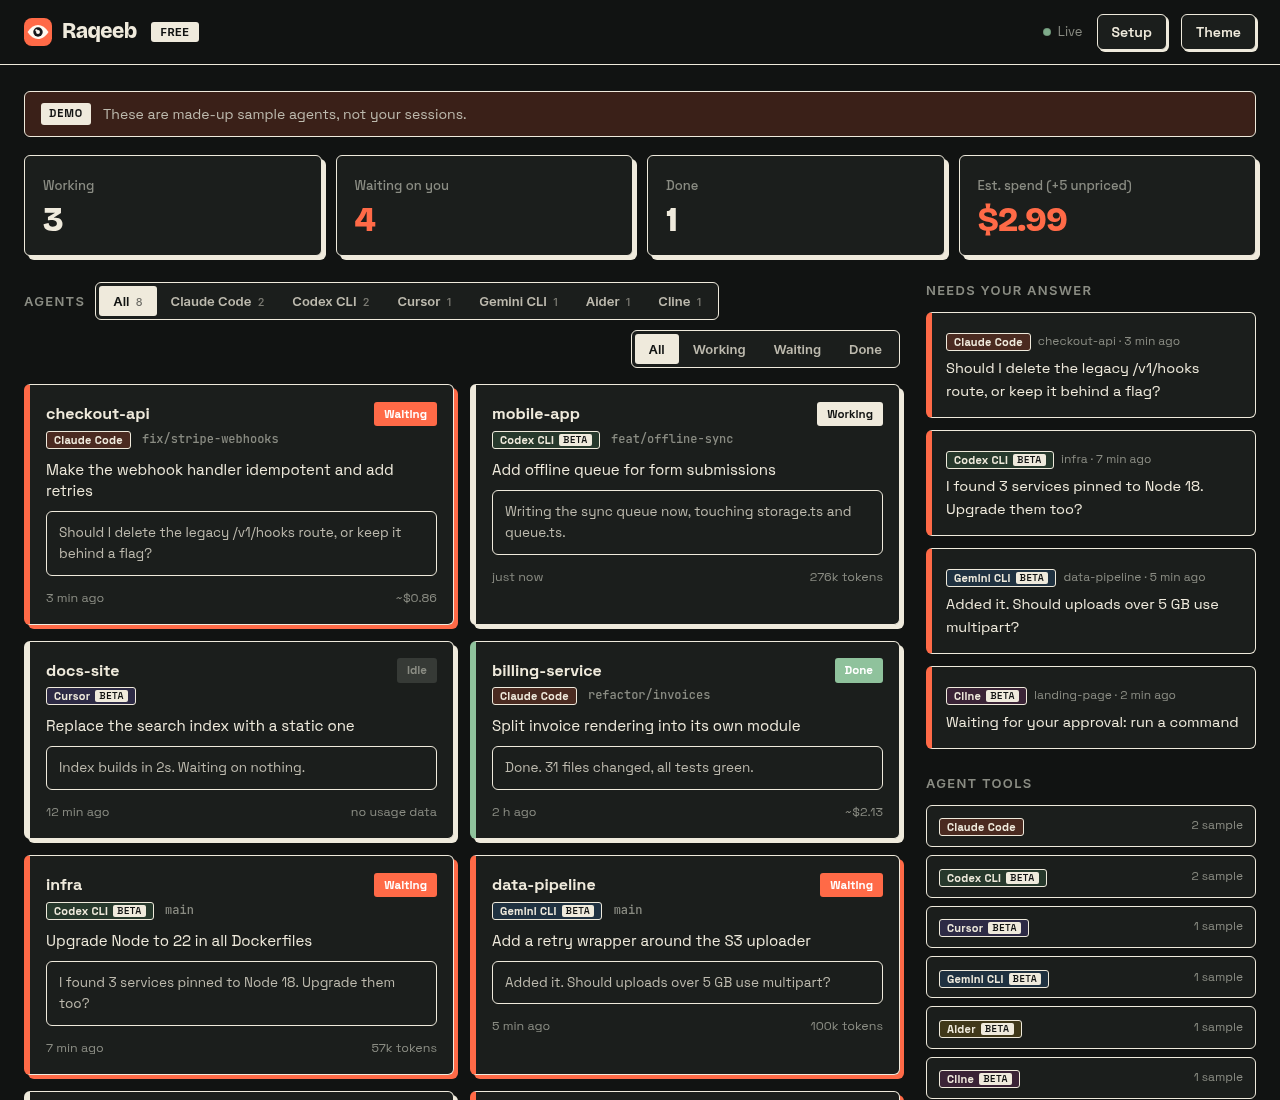
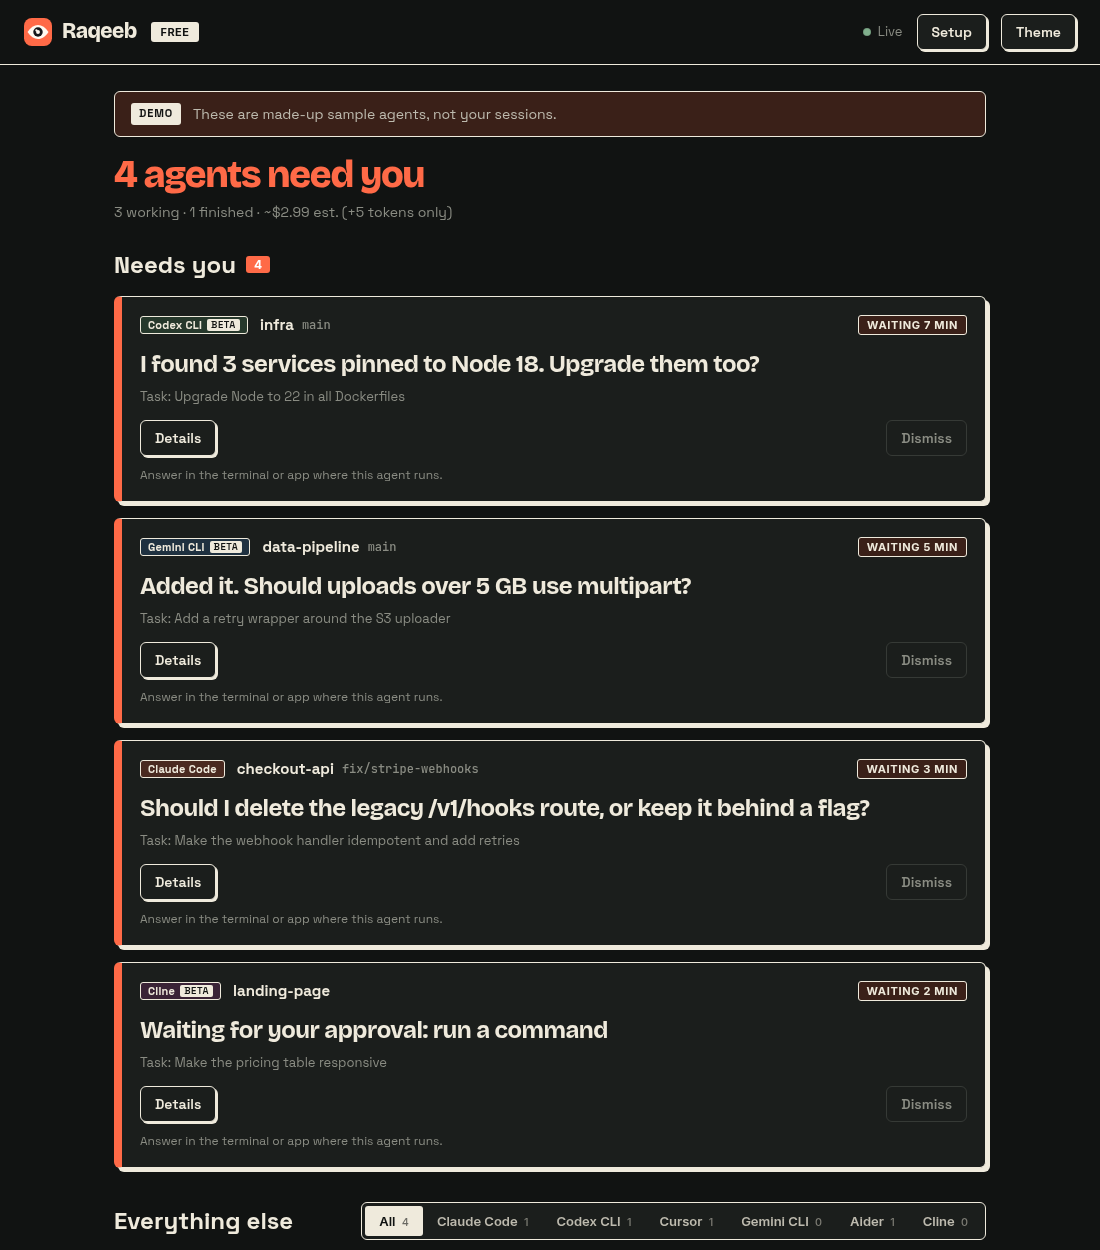
v0.6.0: question-first dashboard

Changed region(s): [[0.0, 0.0, 0.9891, 1.0], [0.9273, 0.9273, 0.9891, 1.0]]

diff --git a/public/app.js b/public/app.js
@@ -12,7 +12,6 @@ const bucket = a => a.status === 'idle' ? 'working' : a.status;
 const badge = p => `<span class="tag t-${esc(p.id || p.provider)}">${esc(p.name || p.tool)}${p.experimental ? '<i title="Experimental: built from published format notes, not yet checked against a real install">beta</i>' : ''}</span>`;
 const provOf = a => providers.find(p => p.id === a.provider) || { id: a.provider, name: a.tool };
 
-document.querySelectorAll('#seg button').forEach(b => b.onclick = () => { filter = b.dataset.f; document.querySelectorAll('#seg button').forEach(x => x.classList.toggle('on', x === b)); draw(); });
 $('#drawer').onclick = e => { if (e.target.id === 'drawer') $('#drawer').classList.remove('open'); };
 window.open_ = id => { const a = agents.find(x => x.id === id); if (!a) return;
   $('#panel').innerHTML = `<h3>${esc(a.project)}</h3><div class="meta">${badge(provOf(a))} ${esc(a.branch || 'no branch')} ${a.model ? '· ' + esc(a.model) : ''}</div><span class="pill" style="display:inline-block">${a.status}</span>
@@ -20,14 +19,45 @@ window.open_ = id => { const a = agents.find(x => x.id === id); if (!a) return;
   <div class="k">Usage</div><pre>${a.hasUsage ? `${a.tokensIn.toLocaleString()} tokens in, ${a.tokensOut.toLocaleString()} out\n` : 'This tool does not record token usage in the files Raqeeb reads.\n'}${a.cost != null ? 'Estimated cost ' + money(a.cost) : a.hasUsage ? 'No price rate set for this model (edit lib/pricing.js)' : ''}\nWorking directory: ${esc(a.cwd)}</pre><p><button class="btn" onclick="document.getElementById('drawer').classList.remove('open')">Close</button></p>`;
   $('#drawer').classList.add('open'); };
 
+const dis = () => { try { return JSON.parse(localStorage.dismissed || '{}'); } catch { return {}; } };
+let showDismissed = false;
+window.dismiss = (id, u) => { const d = dis(); d[id] = u; localStorage.dismissed = JSON.stringify(d); last = ''; refresh(true); };
+window.undismiss = () => { localStorage.dismissed = '{}'; showDismissed = false; last = ''; refresh(true); };
+window.copyCd = (id, btn) => { const a = agents.find(x => x.id === id); if (!a) return; const t = 'cd ' + JSON.stringify(a.cwd); (navigator.clipboard ? navigator.clipboard.writeText(t) : Promise.reject()).then(() => { btn.textContent = 'Copied'; }, () => { prompt('Copy this command', t); }); setTimeout(() => { btn.textContent = 'Copy folder'; }, 1800); };
+const where = a => a.cwd && a.cwd.startsWith('/') ? a.cwd : '';
+function needCard(a) {
+  const age = Math.max(1, Math.round((Date.now() - a.updated) / 60000));
+  return `<div class="need"><div class="need-h">${badge(provOf(a))}<b>${esc(a.project)}</b>${a.branch ? `<code>${esc(a.branch)}</code>` : ''}<span class="sp"></span><span class="age ${age >= 30 ? 'old' : ''}">waiting ${age < 60 ? age + ' min' : Math.round(age / 60) + ' h'}</span></div>
+  <div class="need-q">${esc(a.question || a.lastSay)}</div>
+  <div class="need-t">Task: ${esc(a.task)}</div>
+  <div class="need-a"><button class="btn sm" onclick="open_('${esc(a.id)}')">Details</button>${where(a) ? `<button class="btn sm" onclick="copyCd('${esc(a.id)}',this)">Copy folder</button>` : ''}<span class="sp"></span><button class="btn sm ghost" title="Hide until this agent says something new" onclick="dismiss('${esc(a.id)}',${a.updated})">Dismiss</button></div>
+  <div class="need-n">Answer in the terminal or app where this agent runs.</div></div>`;
+}
+function row(a) {
+  return `<div class="arow ${a.status}" onclick="open_('${esc(a.id)}')"><span class="dot"></span><b>${esc(a.project)}</b>${badge(provOf(a))}<span class="at">${esc(a.task)}</span><span class="sp"></span><span class="pill">${a.status === 'idle' ? 'idle' : a.status}</span><small>${ago(a.updated)}</small><small class="cost">${costText(a)}</small></div>`;
+}
 function draw() {
-  const list = agents.filter(a => (filter === 'all' || bucket(a) === filter) && (pfilter === 'all' || a.provider === pfilter));
-  $('#board').innerHTML = list.map((a, i) => `<div class="card ${a.status}" style="${animate ? `animation:up .5s ${i * 50}ms both` : 'animation:none'}" onclick="open_('${esc(a.id)}')"><div class="row"><span class="proj">${esc(a.project)}</span><span class="pill">${a.status}</span></div>
-  <div class="meta">${badge(provOf(a))} ${esc(a.branch || '')}</div><div class="task">${esc(a.task)}</div><div class="say">${esc(a.lastSay)}</div>
-  <div class="foot"><span>${ago(a.updated)}</span><span>${costText(a)}</span></div></div>`).join('') || `<div class="empty">${pfilter === 'all' ? 'No agents in this view.' : 'No ' + esc((providers.find(p => p.id === pfilter) || {}).name) + ' sessions in this view.'}</div>`;
+  const d = dis(), inView = a => pfilter === 'all' || a.provider === pfilter;
+  const asks = agents.filter(a => a.status === 'waiting' && inView(a)).sort((x, y) => x.updated - y.updated);
+  const hidden = asks.filter(a => d[a.id] === a.updated), shown = asks.filter(a => d[a.id] !== a.updated);
+  $('#needn').textContent = shown.length ? shown.length : '';
+  $('#dismissed').innerHTML = hidden.length ? `${hidden.length} dismissed <button class="link" onclick="undismiss()">show again</button>` : '';
+  const working = agents.filter(a => a.status === 'working' && inView(a)).length + agents.filter(a => a.status === 'idle' && inView(a)).length;
+  $('#needs').innerHTML = shown.length ? shown.map(needCard).join('') : `<div class="calm"><b>${asks.length ? 'Everything is dismissed.' : 'Nothing is waiting on you.'}</b><span>${agents.length ? (working ? working + ' agent' + (working === 1 ? ' is' : 's are') + ' still working. ' : '') + 'When an agent stops to ask a question, it shows up here first.' : 'When an agent stops to ask a question, it shows up here first.'}</span></div>`;
+  const rest = agents.filter(a => a.status !== 'waiting' && inView(a));
+  const g = (t, l) => l.length ? `<div class="grp">${t} <em>${l.length}</em></div>` + l.map(row).join('') : '';
+  const live = rest.filter(a => a.status === 'working' || a.status === 'idle'), fin = rest.filter(a => a.status === 'done');
+  $('#board').innerHTML = rest.length ? g('Working', live) + g('Finished', fin) : `<div class="empty">${pfilter === 'all' ? 'No other agents right now.' : 'No ' + esc((providers.find(p => p.id === pfilter) || {}).name) + ' sessions besides the ones above.'}</div>`;
+  const n = asks.length - hidden.length;
+  document.title = (n ? '(' + n + ') ' : '') + 'Raqeeb';
+  $('#summary').innerHTML = `<div class="sum-main ${n ? 'hot' : ''}"><b>${n ? n + (n === 1 ? ' agent needs you' : ' agents need you') : 'No agent is waiting on you'}</b><span>${agents.filter(a => a.status === 'working' || a.status === 'idle').length} working · ${agents.filter(a => a.status === 'done').length} finished · ${spendLine()}</span></div>`;
+}
+function spendLine() {
+  const known = agents.reduce((s, a) => s + (a.cost || 0), 0), unpriced = agents.filter(a => a.cost == null && a.hasUsage).length;
+  return (known ? '~$' + known.toFixed(2) + ' est.' : 'no priced spend') + (unpriced ? ' (+' + unpriced + ' tokens only)' : '');
 }
 function drawProviderFilter() {
-  const items = [['all', 'All', agents.length], ...providers.map(p => [p.id, p.name, agents.filter(a => a.provider === p.id).length])];
+  const items = [['all', 'All', agents.filter(a => a.status !== 'waiting').length], ...providers.map(p => [p.id, p.name, agents.filter(a => a.provider === p.id && a.status !== 'waiting').length])];
   $('#pseg').innerHTML = items.map(([id, n, c]) => `<button data-p="${esc(id)}" class="${pfilter === id ? 'on' : ''}">${esc(n)} <small>${c}</small></button>`).join('');
   document.querySelectorAll('#pseg button').forEach(b => b.onclick = () => { pfilter = b.dataset.p; drawProviderFilter(); draw(); });
 }
@@ -79,7 +109,7 @@ async function refresh(force) {
   const needSetup = !r.demo && (r.state !== 'ok' || showSetup);
   if (needSetup && !setupData) setupData = await (await fetch('/api/setup')).json();
   if (!needSetup) setupData = null;
-  const sig = JSON.stringify([r.state, showSetup, r.providers.map(p => [p.id, p.root, p.state, p.count]), r.agents.map(a => [a.id, a.status, a.updated, a.lastSay])]);
+  const sig = JSON.stringify([r.state, showSetup, localStorage.dismissed, r.providers.map(p => [p.id, p.root, p.state, p.count]), r.agents.map(a => [a.id, a.status, a.updated, a.lastSay])]);
   if (!force && sig === last) return; last = sig;
   agents = r.agents; providers = r.providers;
   $('#onboard').hidden = !needSetup; $('#dash').hidden = needSetup;
@@ -87,12 +117,7 @@ async function refresh(force) {
   if ($('#exitdemo')) $('#exitdemo').onclick = () => { demoOn = false; sessionStorage.demo = '0'; last = ''; refresh(true); };
   if (needSetup) return onboard(r, setupData);
   if (pfilter !== 'all' && !providers.some(p => p.id === pfilter)) pfilter = 'all';
-  const c = s => agents.filter(a => a.status === s).length;
-  const known = agents.reduce((s, a) => s + (a.cost || 0), 0), unpriced = agents.filter(a => a.cost == null && a.hasUsage).length;
-  $('#stats').innerHTML = [['', c('working') + c('idle'), 'Working'], ['hot', c('waiting'), 'Waiting on you'], ['', c('done'), 'Done'], ['amb', '$' + known.toFixed(2), 'Est. spend' + (unpriced ? ' (+' + unpriced + ' unpriced)' : '')]].map(([k, n, l]) => `<div class="kpi ${k}"><small>${l}</small><b>${n}</b></div>`).join('');
   drawProviderFilter(); draw(); animate = false;
-  const qs = agents.filter(a => a.question);
-  $('#inbox').innerHTML = qs.length ? qs.map(a => `<div class="q"><small>${badge(provOf(a))} ${esc(a.project)} · ${ago(a.updated)}</small><div>${esc(a.question)}</div></div>`).join('') : '<div class="empty">No agent is waiting on you.</div>';
   $('#provs').innerHTML = providers.map(p => `<div class="sp-row prow"><span>${badge(p)}</span><small class="${p.state === 'ok' || p.state === 'demo' ? '' : 'dim'}">${esc(provLine(p))}</small></div>`).join('') + (r.demo ? '' : '<div class="note">Not seeing a tool? Press <b>Setup</b> to check its folder.</div>');
   const sum = (key, list) => { const o = {}; list.forEach(a => { const k = key(a); o[k] = o[k] || { cost: 0, tok: 0, priced: 0, n: 0 }; o[k].n++; o[k].tok += a.tokensIn + a.tokensOut; if (a.cost != null) { o[k].cost += a.cost; o[k].priced++; } }); return o; };
   const row = (n, v) => `<div class="sp-row"><span>${esc(n)}</span><b>${v.priced ? '~$' + v.cost.toFixed(2) : v.tok ? tok(v.tok) + ' tokens' : 'no usage data'}</b></div>`;

diff --git a/public/style.css b/public/style.css
@@ -98,3 +98,28 @@ body{font-family:"Space Grotesk","Inter",sans-serif}
 .t-gemini{background:#d3e2ee}.t-aider{background:#efe3b8}.t-cline{background:#e8d2e2}
 [data-theme=dark] .t-gemini{background:#1f3140;color:#efeadc}[data-theme=dark] .t-aider{background:#403819;color:#efeadc}[data-theme=dark] .t-cline{background:#3a2336;color:#efeadc}
 #pseg{flex-wrap:wrap}.bar{flex-wrap:wrap}
+
+/* v0.6 question-first layout */
+.page{max-width:920px}
+.summary{margin:6px 0 22px}.sum-main b{display:block;font:800 clamp(26px,4vw,38px)/1.05 "Bricolage Grotesque",sans-serif;letter-spacing:-.035em}
+.sum-main.hot b{color:var(--clay)}.sum-main span{display:block;margin-top:6px;color:var(--mute);font-size:14px}
+.sec-h{display:flex;align-items:center;gap:10px;margin:0 0 12px;flex-wrap:wrap}.sec-h h2{margin:0}.sec-h em{font-style:normal;background:var(--clay);color:#fff;border-radius:3px;font:700 12px "Inter";padding:1px 8px}.sec-h em:empty{display:none}
+.sec-h .sp,.need-h .sp,.need-a .sp,.arow .sp{flex:1}
+.link{background:none;border:0;color:var(--ink);text-decoration:underline;cursor:pointer;font:inherit;padding:0}#dismissed{font-size:13px;color:var(--mute)}
+.need{border:1.5px solid var(--ink);border-left:8px solid var(--clay);border-radius:6px;background:var(--surf);box-shadow:var(--hard);padding:16px 18px;margin-bottom:16px}
+.need-h{display:flex;align-items:center;gap:8px;flex-wrap:wrap;font-size:15px}.need-h code{font:500 12px "JetBrains Mono",monospace;color:var(--mute)}
+.age{font:700 11px "Inter";letter-spacing:.06em;text-transform:uppercase;background:var(--amberbg);padding:2px 8px;border-radius:3px;border:1.5px solid var(--ink)}.age.old{background:var(--clay);color:#fff}
+.need-q{font:700 clamp(19px,2.6vw,24px)/1.25 "Bricolage Grotesque",sans-serif;letter-spacing:-.02em;margin:12px 0 8px;white-space:pre-wrap}
+.need-t{font-size:13px;color:var(--mute);margin-bottom:12px}
+.need-a{display:flex;gap:8px;align-items:center}.need-n{font-size:12px;color:var(--mute);margin-top:10px}
+.btn.sm.ghost{box-shadow:none;border-color:var(--line);color:var(--mute)}.btn.sm.ghost:hover{border-color:var(--ink);color:var(--ink)}
+.calm{border:1.5px dashed var(--ink);border-radius:6px;padding:22px 20px;background:var(--surf)}.calm b{display:block;font:800 20px "Bricolage Grotesque",sans-serif;letter-spacing:-.02em}.calm span{display:block;color:var(--mute);margin-top:4px;font-size:14px}
+.rest{margin-top:34px}.grp{font:700 11px "Inter";letter-spacing:.08em;text-transform:uppercase;color:var(--mute);margin:14px 0 8px}.grp em{font-style:normal;opacity:.7}
+.arow{display:flex;align-items:center;gap:10px;padding:10px 14px;border:1.5px solid var(--line);border-radius:6px;background:var(--surf);margin-bottom:8px;cursor:pointer;font-size:14px}
+.arow:hover{border-color:var(--ink)}.arow .dot{width:9px;height:9px;border-radius:50%;background:var(--ink);flex:none}.arow.done .dot{background:var(--moss)}.arow.idle .dot{background:var(--mute)}
+.arow .at{color:var(--ink2);overflow:hidden;text-overflow:ellipsis;white-space:nowrap;min-width:0}.arow small{color:var(--mute);font-size:12px;white-space:nowrap}.arow .cost{font-family:"JetBrains Mono",monospace;min-width:70px;text-align:right}
+.arow .tag{margin:0;flex:none}.arow b{flex:none}
+.more{margin-top:34px;border:1.5px solid var(--ink);border-radius:6px;background:var(--surf);padding:0 18px}.more summary{cursor:pointer;padding:14px 0;font:700 14px "Space Grotesk"}.more-in{display:grid;grid-template-columns:repeat(3,1fr);gap:20px;padding-bottom:16px}.more h3{font:700 11px "Inter";letter-spacing:.08em;text-transform:uppercase;color:var(--mute);margin:0 0 8px}
+@media(max-width:760px){.more-in{grid-template-columns:1fr}.arow{flex-wrap:wrap}.arow .at{flex-basis:100%;order:9}.need-a{flex-wrap:wrap}}
+.pro{margin-top:26px}
+@media(max-width:480px){.live{display:none}}

diff --git a/public/index.html b/public/index.html
@@ -2,13 +2,13 @@
 <link href="https://fonts.googleapis.com/css2?family=Bricolage+Grotesque:opsz,wght@12..96,600..800&family=Space+Grotesk:wght@400;500;600;700&family=Inter:wght@400;500;600;700&family=JetBrains+Mono:wght@500&display=swap" rel="stylesheet">
 <link rel="stylesheet" href="/style.css"></head><body>
 <header class="top"><div class="in"><div class="logo"><svg viewBox="0 0 32 32"><rect width="32" height="32" rx="9" fill="var(--amber)"/><path d="M4 16c3.5-5.5 7.5-8 12-8s8.5 2.5 12 8c-3.5 5.5-7.5 8-12 8s-8.5-2.5-12-8z" fill="#fffaf1"/><circle cx="16" cy="16" r="5.4" fill="#15171a"/><circle cx="16" cy="16" r="2.2" fill="#fffaf1"/><circle cx="14.2" cy="14.2" r="1.3" fill="#fffaf1"/></svg>Raqeeb</div><span class="chip">FREE</span><div class="sp"></div><div class="live"><i></i>Live</div><button class="btn" id="setupbtn">Setup</button><button class="btn" id="theme">Theme</button></div></header>
-<div class="page"><div id="banner"></div><div id="onboard" hidden></div><div id="dash"><div class="kpis" id="stats"></div>
-<div class="layout"><section><div class="bar"><h2>Agents</h2><div class="seg" id="pseg"></div><div class="seg" id="seg"><button class="on" data-f="all">All</button><button data-f="working">Working</button><button data-f="waiting">Waiting</button><button data-f="done">Done</button></div></div><div class="board" id="board"></div></section>
-<aside class="side"><h2>Needs your answer</h2><div id="inbox"></div>
-<h2 style="margin-top:26px">Agent tools</h2><div id="provs"></div><h2 style="margin-top:26px">Spend by tool</h2><div id="spendp"></div><h2 style="margin-top:26px">Spend by project</h2><div id="spend"></div>
+<div class="page"><div id="banner"></div><div id="onboard" hidden></div><div id="dash"><div class="summary" id="summary"></div>
+<section class="focus"><div class="sec-h"><h2>Needs you</h2><em id="needn"></em><span class="sp"></span><span id="dismissed"></span></div><div id="needs"></div></section>
+<section class="rest"><div class="sec-h"><h2>Everything else</h2><span class="sp"></span><div class="seg" id="pseg"></div></div><div id="board"></div></section>
+<details class="more"><summary>Usage and tools</summary><div class="more-in"><div><h3>Agent tools</h3><div id="provs"></div></div><div><h3>Spend by tool</h3><div id="spendp"></div></div><div><h3>Spend by project</h3><div id="spend"></div></div></div></details>
 <div class="pro"><h3>Raqeeb Pro</h3><p>Coming soon. Join the waitlist on the website.</p>
 <div class="lock"><svg viewBox="0 0 24 24" fill="none" stroke="currentColor" stroke-width="2" stroke-linecap="round"><rect x="4" y="11" width="16" height="10" rx="2"/><path d="M8 11V8a4 4 0 0 1 8 0v3"/></svg>Approve from your phone<em>PRO</em></div>
 <div class="lock"><svg viewBox="0 0 24 24" fill="none" stroke="currentColor" stroke-width="2" stroke-linecap="round"><rect x="4" y="11" width="16" height="10" rx="2"/><path d="M8 11V8a4 4 0 0 1 8 0v3"/></svg>Limits on files and commands<em>PRO</em></div>
-<div class="lock"><svg viewBox="0 0 24 24" fill="none" stroke="currentColor" stroke-width="2" stroke-linecap="round"><rect x="4" y="11" width="16" height="10" rx="2"/><path d="M8 11V8a4 4 0 0 1 8 0v3"/></svg>Model quality alerts<em>PRO</em></div></div></aside></div></div></div>
+<div class="lock"><svg viewBox="0 0 24 24" fill="none" stroke="currentColor" stroke-width="2" stroke-linecap="round"><rect x="4" y="11" width="16" height="10" rx="2"/><path d="M8 11V8a4 4 0 0 1 8 0v3"/></svg>Model quality alerts<em>PRO</em></div></div></div></div>
 <div class="drawer" id="drawer"><div class="panel" id="panel"></div></div>
 <script src="/app.js"></script></body></html>

diff --git a/README.md b/README.md
@@ -6,12 +6,12 @@ Raqeeb means "watcher" in Arabic. If you run more than one agent at once, often 
 
 ![Raqeeb dashboard, light mode](docs/dashboard-light.png)
 
-![Claude Code, Codex CLI and Cursor on one board, from sample session files](docs/dashboard-providers.png)
+![When nothing is waiting: working agents below, tool filters on the right](docs/dashboard-calm.png)
 
 ## What you get
 
 - **One board for every agent, from every tool.** Six tools side by side. Each card has a tool badge, project, branch, task, last message and a status: working, idle, waiting on you, or done. Filter by tool.
-- **An inbox of open questions.** When an agent ends its turn with a question, it shows up in "Needs your answer" so you can find it fast.
+- **An inbox of open questions.** When an agent ends its turn with a question, it shows up at the top under "Needs you", longest-waiting first.
 - **Spend per tool and per project.** An estimate where a price is known (Claude Code), and token counts only where it is not. Raqeeb never invents a price.
 - **Light and dark mode**, and a layout that works on a phone-sized window.
 - **Local only.** Reads files already on your disk. No account, no telemetry, nothing uploaded. The server listens on `127.0.0.1`, so other machines cannot reach it.
@@ -63,8 +63,8 @@ Just want to look around? Press **Try demo with sample data** on that screen, or
 
 1. Start Raqeeb and leave it open in a browser tab.
 2. Use your agents as you normally do, in as many terminals and tools as you like. Sessions show up on their own.
-3. Watch the **Needs your answer** list. Click an agent card to see its task, last message, token usage and working folder.
-4. Use the tool chips (All, Claude Code, Codex CLI, Cursor) and the status filter (All, Working, Waiting, Done) to focus.
+3. Questions come first. Any agent that stopped to ask something appears at the top under **Needs you**, longest-waiting first, with its tool, project, the question, and how long it has waited. Press **Details** for the full context, **Copy folder** for a `cd` command to the project, or **Dismiss** to hide it until that agent says something new. Raqeeb cannot answer for you yet. Go to the terminal or app where the agent runs.
+4. Everything else is listed below as one line per agent (working, then finished). Use the tool chips to focus on one tool. Spend, tool status and per-project cost are under **Usage and tools**. The browser tab title shows how many agents need you, for example `(2) Raqeeb`.
 
 If Raqeeb finds no session from the last 24 hours in any tool it shows the setup screen, not sample data.
 

diff --git a/CHANGELOG.md b/CHANGELOG.md
@@ -1,5 +1,11 @@
 # Changelog
 
+## 0.6.0
+- Question-first dashboard. The top of the page says how many agents need you, then lists each question with the tool, project, task and how long it has waited. Details, Copy folder and Dismiss on each (dismissed until the agent says something new).
+- Everything else is one line per agent, grouped Working and Finished. Usage, tool status and spend moved into a collapsed "Usage and tools" section.
+- Calm empty state when nothing is waiting. Tab title shows the waiting count.
+- Site: headline and copy lead with questions, and the demo is labelled simulated.
+
 ## 0.5.0
 - Three more tools: Gemini CLI, Aider and Cline, each its own adapter, all experimental (written from published format notes, tested with fixture files only).
 - Setup screen has a panel for each; new flags `--gemini-dir`, `--aider-dir`, `--cline-dir`.
